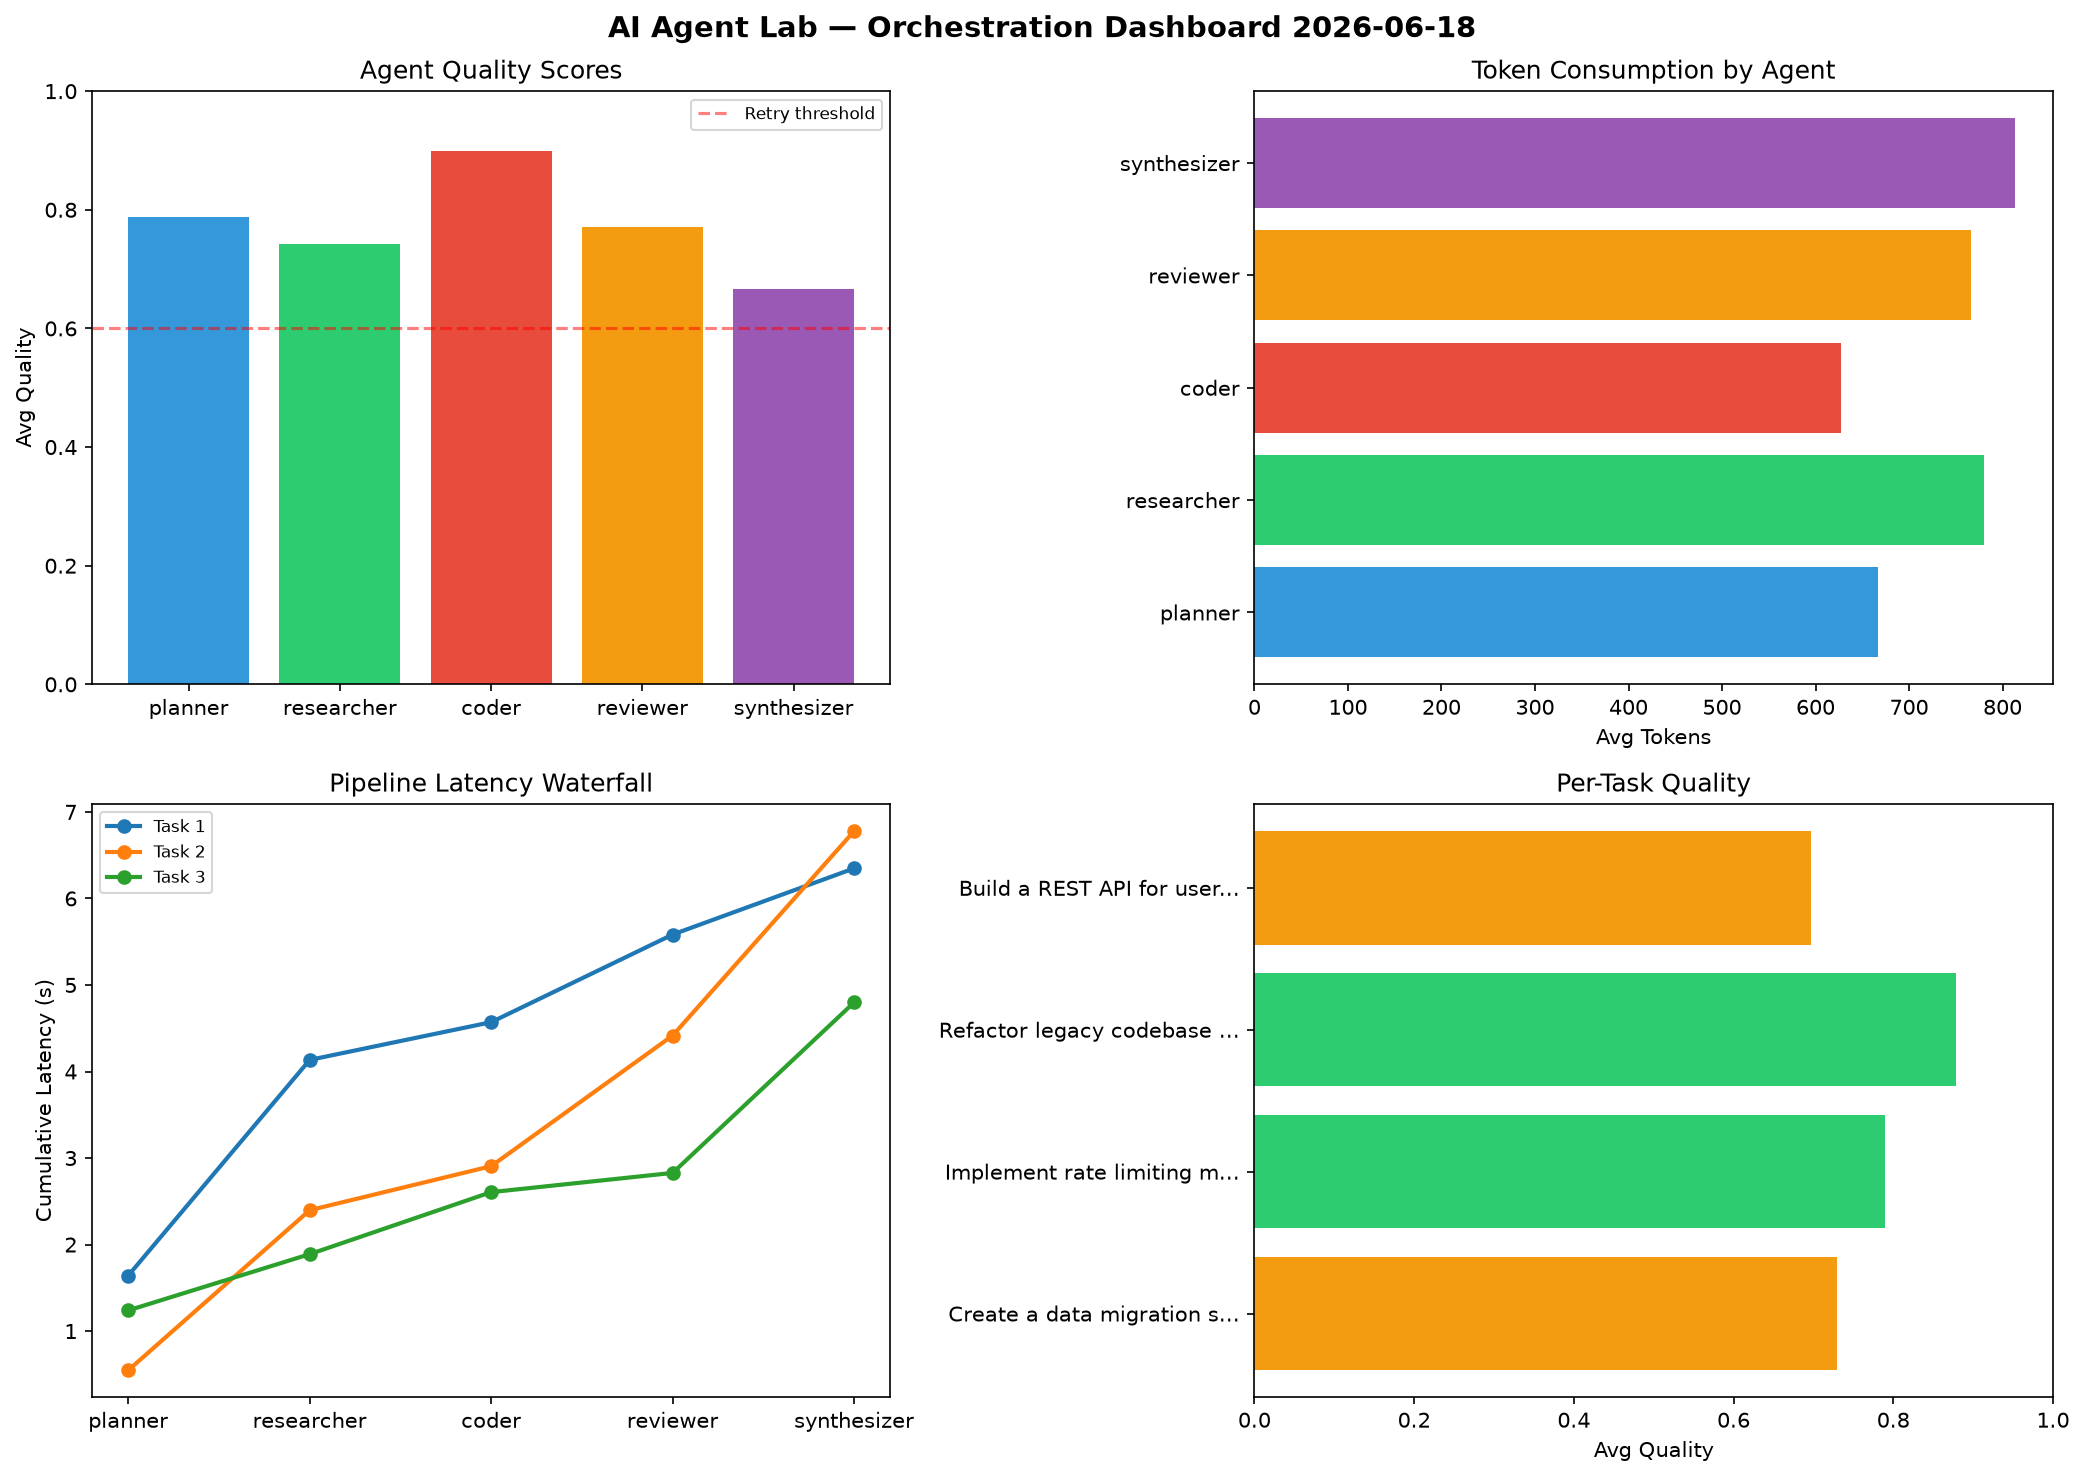
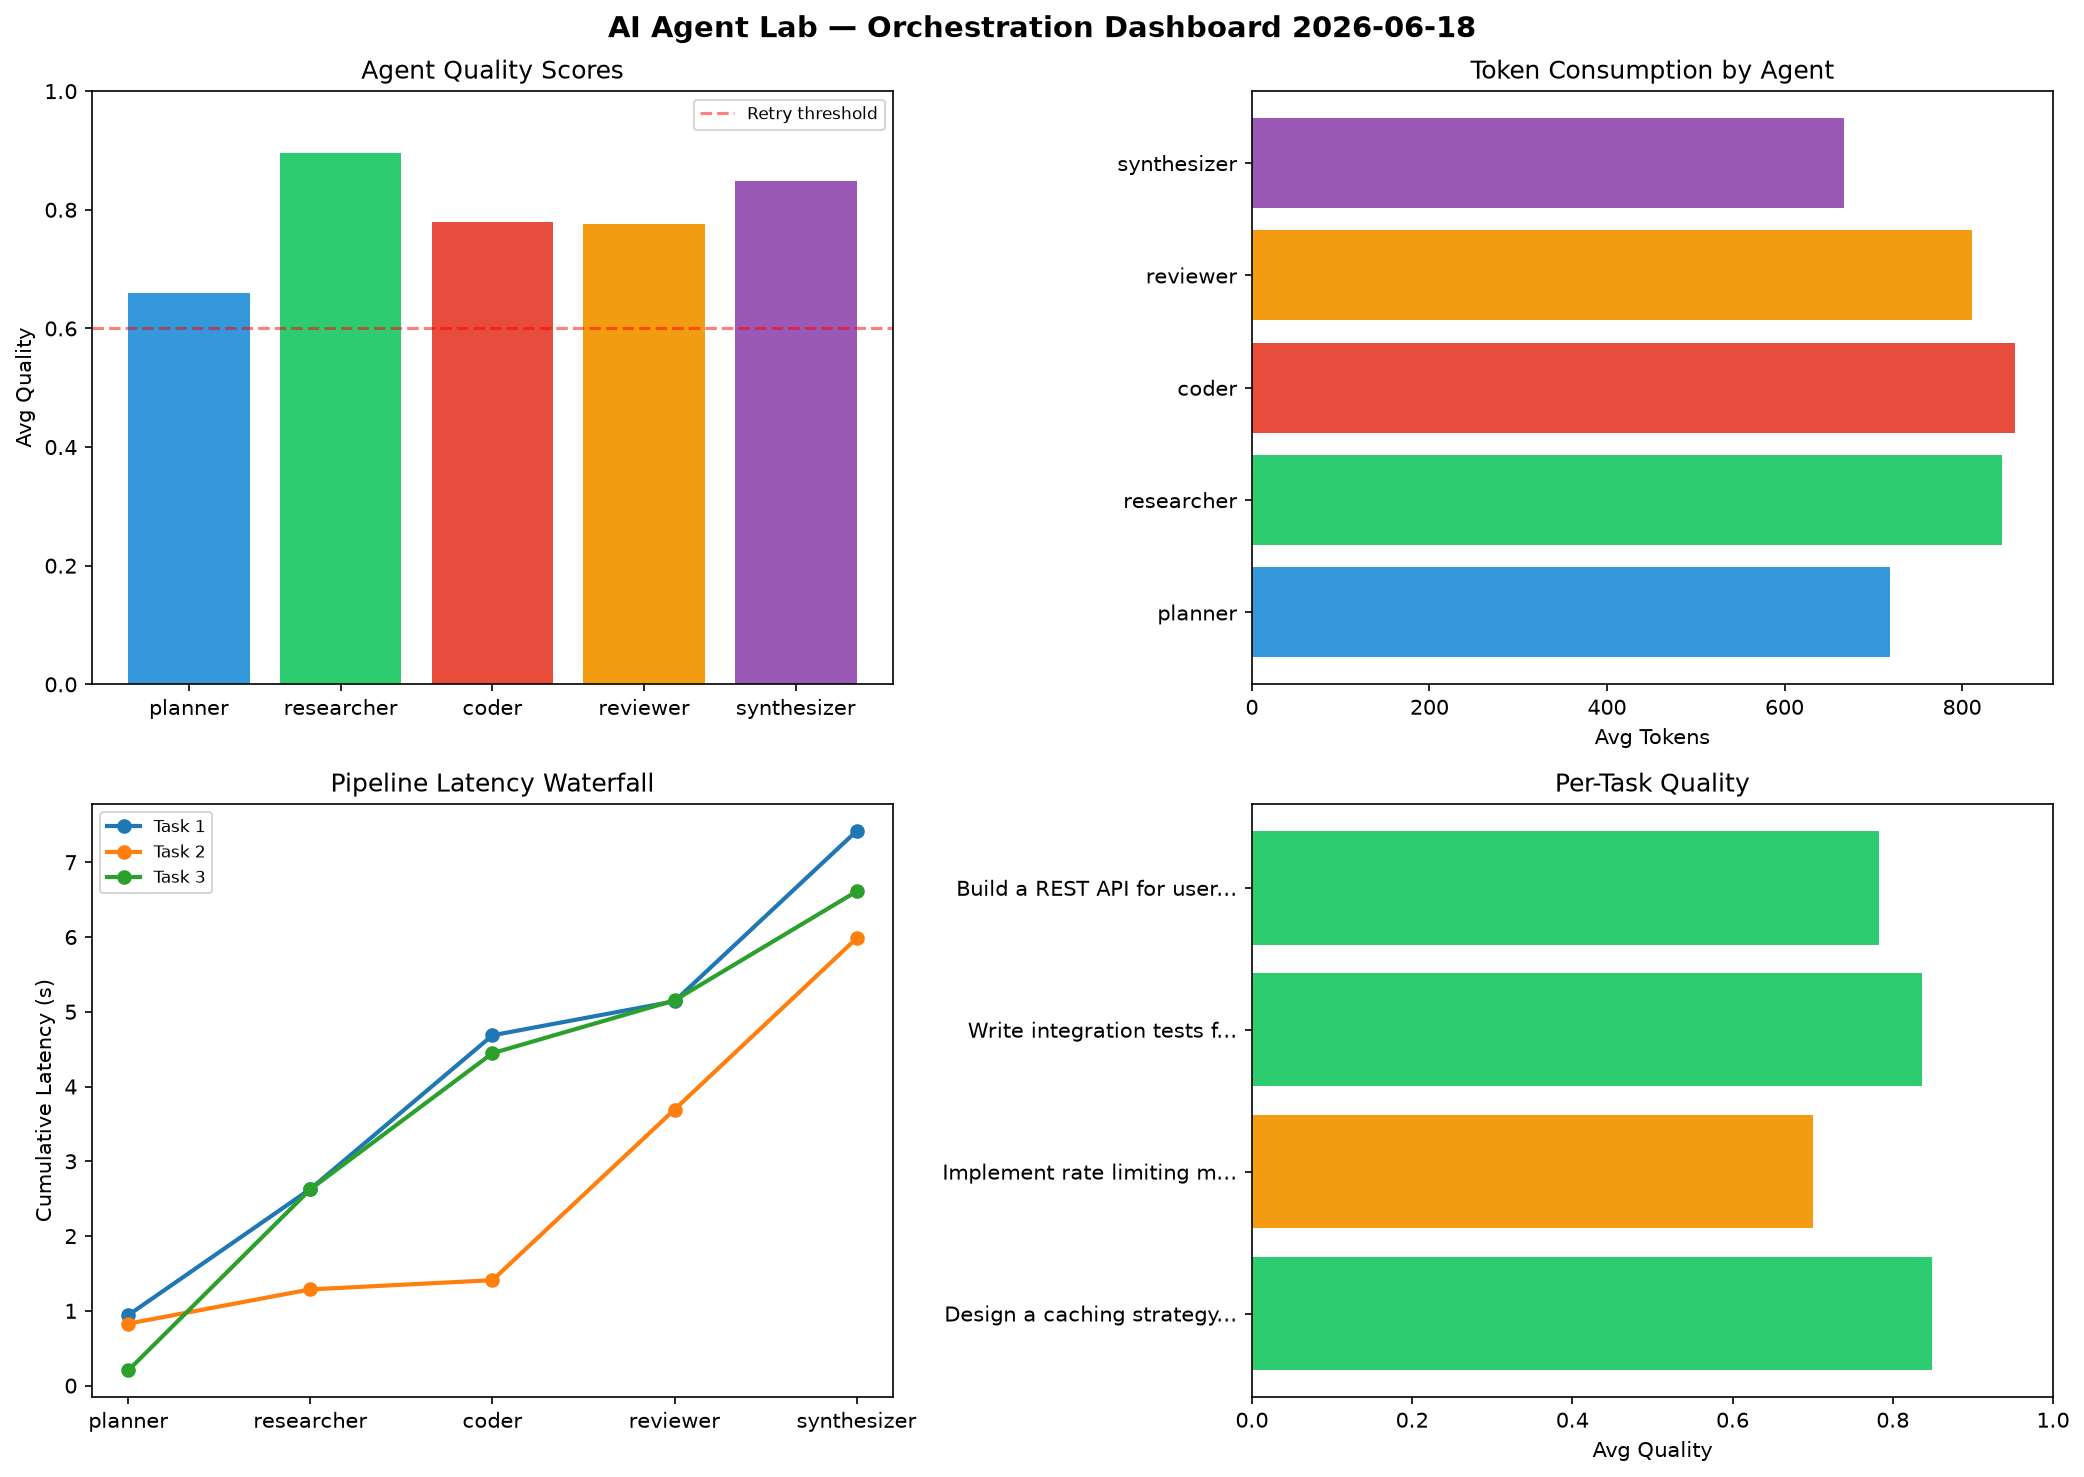
ai-agent-lab: orchestration run 2026-06-18T22:26

diff --git a/logs/2026-06-18.md b/logs/2026-06-18.md
@@ -1,6 +1,6 @@
 # AI Agent Lab — Orchestration Report 2026-06-18
 
-**Run ID:** `d65e1c5e9a` | **Tasks:** 4 | **Avg Quality:** 0.774
+**Run ID:** `dcc1d3df90` | **Tasks:** 4 | **Avg Quality:** 0.792
 
 ![Dashboard](2026-06-18_dashboard.png)
 
@@ -8,52 +8,52 @@
 
 | Metric | Value |
 |--------|-------|
-| avg_latency | 6.06 |
-| total_tokens | 14612 |
-| avg_quality | 0.774 |
+| avg_latency | 6.279 |
+| total_tokens | 15612 |
+| avg_quality | 0.792 |
 
 ## Delta vs Yesterday
 
 | Metric | Today | Yesterday | Change |
 |--------|-------|-----------|--------|
-| avg_latency | 6.06 | 5.498 | 📈 10.2% |
-| total_tokens | 14612 | 13497 | 📈 8.3% |
-| avg_quality | 0.774 | 0.733 | 📈 5.6% |
+| avg_latency | 6.279 | 5.498 | 📈 14.2% |
+| total_tokens | 15612 | 13497 | 📈 15.7% |
+| avg_quality | 0.792 | 0.733 | 📈 8.0% |
 
 ## Pipeline Results
 
-### Create a data migration script for schema v2
+### Design a caching strategy for high-traffic endpoints
 | Agent | Quality | Latency | Tokens | Status |
 |-------|---------|---------|--------|--------|
-| planner | 0.654 | 1.641s | 453 | success |
-| researcher | 0.997 | 2.493s | 1065 | success |
-| coder | 0.975 | 0.436s | 785 | success |
-| reviewer | 0.514 | 1.013s | 901 | needs_retry |
-| synthesizer | 0.51 | 0.765s | 1008 | needs_retry |
+| planner | 0.627 | 0.943s | 322 | success |
+| researcher | 0.882 | 1.687s | 853 | success |
+| coder | 0.914 | 2.055s | 721 | success |
+| reviewer | 0.986 | 0.455s | 635 | success |
+| synthesizer | 0.837 | 2.277s | 653 | success |
 
 ### Implement rate limiting middleware
 | Agent | Quality | Latency | Tokens | Status |
 |-------|---------|---------|--------|--------|
-| planner | 0.905 | 0.547s | 744 | success |
-| researcher | 0.506 | 1.85s | 1193 | needs_retry |
-| coder | 0.922 | 0.509s | 379 | success |
-| reviewer | 0.977 | 1.51s | 570 | success |
-| synthesizer | 0.639 | 2.363s | 775 | success |
+| planner | 0.647 | 0.829s | 893 | success |
+| researcher | 0.959 | 0.458s | 770 | success |
+| coder | 0.537 | 0.123s | 1006 | needs_retry |
+| reviewer | 0.548 | 2.282s | 508 | needs_retry |
+| synthesizer | 0.809 | 2.29s | 479 | success |
 
-### Refactor legacy codebase to use dependency injection
+### Write integration tests for payment processing module
 | Agent | Quality | Latency | Tokens | Status |
 |-------|---------|---------|--------|--------|
-| planner | 0.829 | 1.239s | 871 | success |
-| researcher | 0.854 | 0.65s | 328 | success |
-| coder | 0.764 | 0.717s | 470 | success |
-| reviewer | 0.972 | 0.222s | 811 | success |
-| synthesizer | 0.97 | 1.971s | 885 | success |
+| planner | 0.66 | 0.205s | 784 | success |
+| researcher | 0.832 | 2.421s | 935 | success |
+| coder | 0.904 | 1.82s | 894 | success |
+| reviewer | 0.903 | 0.706s | 1117 | success |
+| synthesizer | 0.882 | 1.457s | 741 | success |
 
 ### Build a REST API for user authentication
 | Agent | Quality | Latency | Tokens | Status |
 |-------|---------|---------|--------|--------|
-| planner | 0.764 | 1.099s | 597 | success |
-| researcher | 0.615 | 2.241s | 534 | success |
-| coder | 0.935 | 0.179s | 875 | success |
-| reviewer | 0.624 | 0.432s | 783 | success |
-| synthesizer | 0.548 | 2.364s | 585 | needs_retry |
+| planner | 0.708 | 1.785s | 876 | success |
+| researcher | 0.908 | 0.441s | 824 | success |
+| coder | 0.766 | 0.171s | 817 | success |
+| reviewer | 0.665 | 0.286s | 987 | success |
+| synthesizer | 0.869 | 2.426s | 797 | success |
